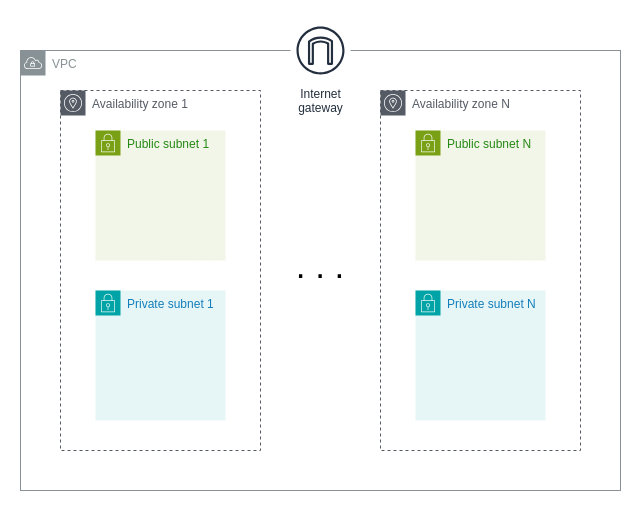
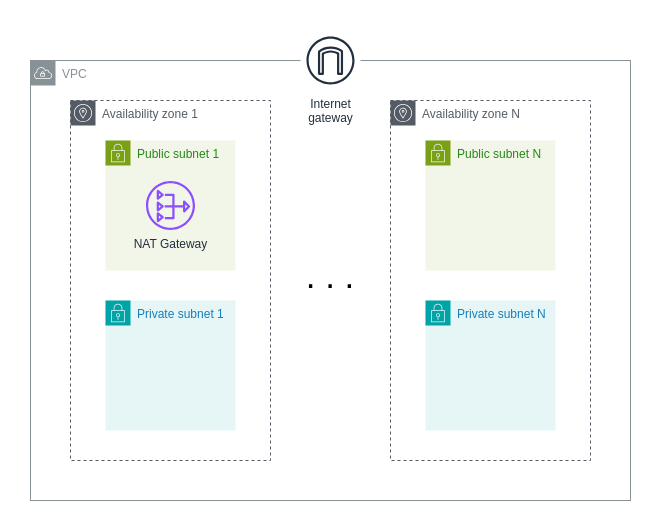
#9 add NAT Gateway

diff --git a/services/vpc/README.md b/services/vpc/README.md
@@ -8,5 +8,26 @@ This Terraform configuration sets up a Virtual Private Cloud with the following 
   - Private Subnets: Subnets that are isolated from the internet.
 - Internet Gateway: Attaches an internet gateway to the VPC to enable internet access for public subnets.
 - Public Route Table: Includes a route to the internet gateway for internet access.
+- NAT Gateway: If set as true will allow outbound internet traffic to all Private Subnets.
 
+### How to use
+
+```js
+module "vpc" {
+  source = "git::https://github.com/nmema/terraform-baby-modules.git//services/vpc?ref=v0.0.4"
+
+  aws_region = "us-west-2"
+
+  vpc_cidr              = "10.0.0.0/16"
+  public_subnets_cidrs  = ["10.0.1.0/24", "10.0.2.0/24"]
+  private_subnets_cidrs = ["10.0.4.0/24", "10.0.5.0/24"]
+  azs                   = ["us-west-2a", "us-west-2b"]
+
+  prefix_name        = "Terraform"
+  enable_nat_gateway = true
+}
+```
+
+
+### Architecture
 ![diagram](data/vpc.png)
